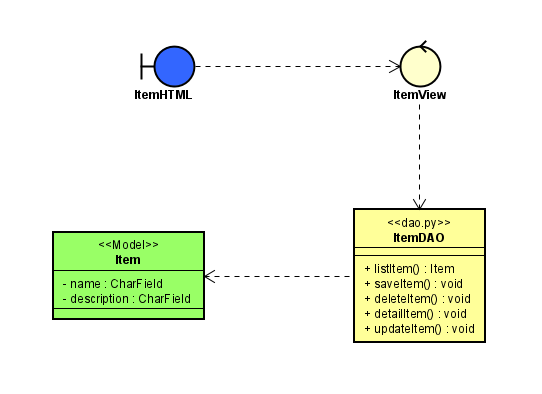
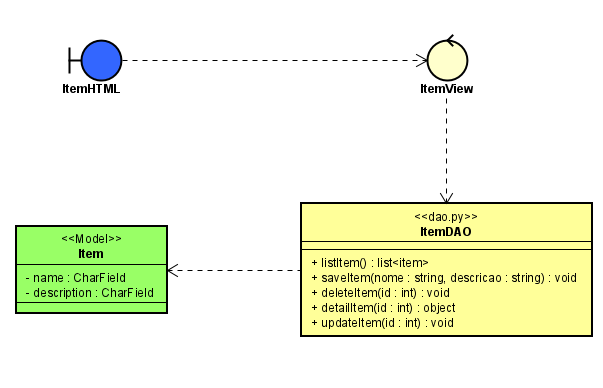
Corrigindo o arquivo DAO

diff --git a/aluguel/api/daos.py b/aluguel/api/daos.py
@@ -5,32 +5,27 @@ from .models import Item
 
 class ItemDAO:
     #Recupera a lista de itens cadastrados
-    def list_item(self, request):
+    def list_item(self):
         item_list = Item.objects.all()
-        context = {'item_list': item_list}
-        return render(request, 'item/listItem.html', context)
-
-    #Redirecionador para o formulário de cadastro de item
-    def form_item(self, request):
-        return render(request, 'item/formItem.html')
+        return item_list
 
     #Salva o novo item e volta para listagem de itens
-    def save_item(self, request):
-        i = Item(name=request.POST['name'], 
-                 description=request.POST['description'])
+    def save_item(self, nome, descricao):
+        i = Item(name=nome, description=descricao)
         i.save()
-        return redirect('/listItem')
+        
 
     #Deleta um item e volta para listagem de itens
     def delete_item(self, id):
         i = Item.objects.get(pk=id)
         i.delete()
-        return redirect('/listItem')
+        
     
     #Pega um item pelo ID e enviar para o form de edição
-    def detail_item(self, request, id):
+    def detail_item(self, id):
         item = Item.objects.get(pk=id)
-        return render(request, 'item/formEditItem.html', {'item': item} )
+        return item
+        
 
     #Atualiza um item e volta para listagem
     def update_item(self, request, id):
@@ -38,4 +33,4 @@ class ItemDAO:
         i.name = request.POST['name']
         i.description = request.POST['description']
         i.save()
-        return redirect('/listItem')        
+               

diff --git a/aluguel/api/views.py b/aluguel/api/views.py
@@ -1,4 +1,4 @@
-from django.shortcuts import render
+from django.shortcuts import render, redirect
 
 from .daos import ItemDAO
 
@@ -12,19 +12,30 @@ class ItemViews:
         self.item_dao = ItemDAO()
 
     def list_item(self, request):
-        return self.item_dao.list_item(request)
+        item_list = ItemDAO.list_item(request)
+        context = {'item_list': item_list}
+        return render(request, 'item/listItem.html', context)
+    
 
     def form_item(self, request):
-        return self.item_dao.form_item(request)
+        # return self.item_dao.form_item(request)
+        return render(request, 'item/formItem.html')
 
     def save_item(self, request):
-        return self.item_dao.save_item(request)
+        name=request.POST['name']
+        description=request.POST['description']
+        self.item_dao.save_item(name, description)
+        return redirect('/listItem')
 
     def delete_item(self, request, id):
-        return self.item_dao.delete_item(id)
+        self.item_dao.delete_item(id)
+        return redirect('/listItem')
 
     def detail_item(self, request, id):
-        return self.item_dao.detail_item(request, id)
+        item = ItemDAO.detail_item(request, id)
+        context = {'item': item}
+        return render(request, 'item/formEditItem.html', context)
         
     def update_item(self, request, id):
-        return self.item_dao.update_item(request, id)
+        self.item_dao.update_item(request, id)
+        return redirect('/listItem') 
